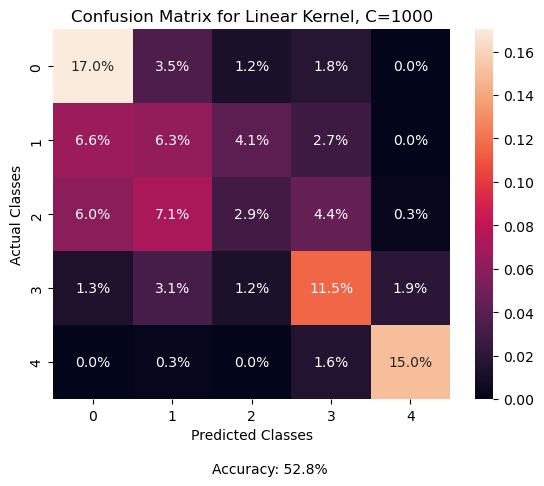
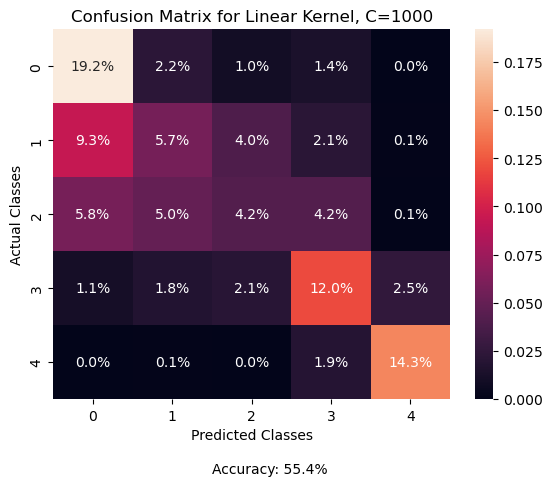
Update C1000 linear figure.

diff --git a/csci5622/svm.html b/csci5622/svm.html
@@ -65,13 +65,40 @@
             <md-block>
 
             ## Data Prep
+            Preparing the data for SVMs is relatively straightforward. The key driver is that SVMs can only be performed on numerical data, since each data point must be able to be plotted into n-dimensional space. For this analysis, the variable we will categorize by is again, the wealth index quantile (hv270). We will try to determine with economic class a given household belongs to based on their responses to a set of numerical variables.
 
+            First, the dataset is cut down from over 3000 to just 50ish economic and demographic variables of interest to make the dataset easier to handle. Response values are then converted from categorical to numerical values, such as "no" to 0 and "yes" to 1. Next, only the variables that can be converted to numerical responses are included. These variables were selected from the decision tree analysis in order of variable importance. Some basic demographic variables were also included since they were easily converted to numeric values. The final list of variables used is:
+            - hv243a (Mobile telephone)
+            - hv244 (Ag. Landowner)
+            - hv209 (Refridgerator)
+            - hv208 (Television)
+            - hv243b (Watch)
+            - hv206 (Electricity)
+            - hv207 (Radio)
+            - hv010 (Number of eligible women in household)
+            - hv011 (Number of eligible men in household)
+            - hv012 (Number of de jure members)
+            - hv014 (Number of children 5 and under (de jure))
+            - hv216 (Number of rooms used for sleeping)
+
+            Finally, the data are normalized with a standard deviation of 1 and a mean of 0 to make it easier for the support vector machine algorithm to fit the data. To better see the way in which the data cluster based on the variables used in this analysis, we can run Principle Component Analysis for 2 components and then plot the 2D results. We can a good amount of clustering, but still a good deal of overlap. This is likely indicative of how our SVM will be able to perform.
+            
+            <figure>
+                <img class="figure" src="/csci5622/figures/svm/clusters.png"> 
+                <figcaption>A scatterplot of the two principle components of the data vectors, pc1 and pc2. The wealth index of the household is indicated with color. There is a decent amount of clustering, though there remains a good deal of overlap between categories.</figcaption>
+            </figure>
+                
+            Now that we have scaled data, we then separate it into training and testing data so that we can evaluate the performance of each of our SVMs. In this case, an 80/20 split is used for training and testing respectively. Labels are also removed from the testing data and training data to allow for the training and evaluation of each.
+            
+            Now that the data is ready for SVMs, we fit an SVM to the training data and then evaluate it on the test data a total of 12 times: 3 different kernels with 4 difference cost values for each kernel. The kernels used are linear, radial basis function (RBF), and polynomial. The 4 different cost values used are 1, 10, 100, and 1000. The cost value determines how much an SVM should be allowed to "bend" with the data. Extra bending may lead to the correct classification of more points in the training dataset, but at the cost of a narrower margin. This can lead to reduced performance on the testing dataset. It it analogous to the overfitting of data in other machine learning models such as regression. 
 
             ## Code
             Find all of the code use to clean the data and run the SVMs in Python on GitHub [here](https://github.com/isaiahlg/csci5622mod4/blob/main/svm.py)
             <figure><img class="figure" src="/csci5622/figures/svm/code.png"></figure>
 
             ## Results
+
+            Below, you can find the results for each of the 12 runs from 4 different cost values on 3 different kernels.
             
             ### Linear Kernel
             <figure>
